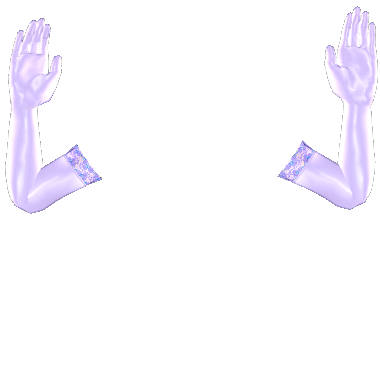
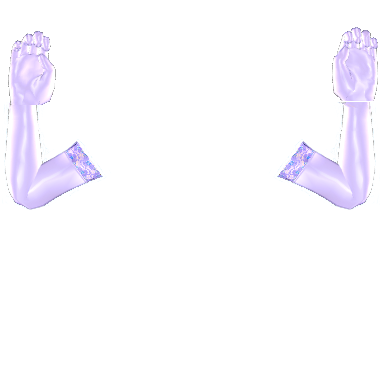
Gloves Fix
Added new pose for Gloves 'HandsTaped'
This allows us to unhide the gloves when wearing mittens without any issues of the fingers clipping through.
Also updated the silky gloves for yoked position

diff --git a/BondageClub/Assets/Female3DCG/Female3DCG.js b/BondageClub/Assets/Female3DCG/Female3DCG.js
@@ -521,7 +521,7 @@ var AssetFemale3DCG = [
 		Clothing: true,
 		Underwear: true,
 		Default: false,
-		AllowPose: ["BackBoxTie", "BackCuffs", "BackElbowTouch", "Yoked", "AllFours"],
+		AllowPose: ["TapedHands", "BackBoxTie", "BackCuffs", "BackElbowTouch", "Yoked", "AllFours"],
 		Color: ["Default", "#cccccc", "#aaaaaa", "#888888", "#666666", "#444444", "#222222", "#aa8080", "#80aa80", "#8080aa", "#aaaa80", "#80aaaa", "#aa80aa", "#cc3333", "#33cc33", "#3333cc", "#cccc33", "#33cccc", "#cc33cc"],
 		Asset: [
 			"Gloves1", "Gloves2",
@@ -1368,10 +1368,10 @@ var AssetFemale3DCG = [
 		Color: ["Default"],
 		Zone: [[10, 400, 90, 200], [400, 400, 90, 200]],
 		Asset: [
-			{ Name: "PaddedMittens", DefaultColor: "#bbbbbb", SelfBondage: false, Value: 40, AllowPose: ["BackBoxTie", "BackElbowTouch", "BackCuffs", "Yoked", "AllFours"], Effect: ["Block", "Prone"], Extended: true, Time: 15, Difficulty: 4, AllowLock: true },
-			{ Name: "PawMittens", DefaultColor: "#bbbbbb", SelfBondage: false, Value: 50, AllowPose: ["BackBoxTie", "BackElbowTouch", "BackCuffs", "Yoked", "AllFours"], Effect: ["Block", "Prone"], Extended: true, Time: 15, Difficulty: 4, AllowLock: true },
-			{ Name: "LeatherMittens", SelfBondage: false, Value: 60, SetPose: ["TapedHands"], AllowPose: ["BackBoxTie", "BackElbowTouch", "BackCuffs", "Yoked", "AllFours"], Hide: ["Gloves"], Effect: ["Block", "Prone"], Time: 15, RemoveTime: 5, Difficulty: 5, AllowLock: true },
-			{ Name: "PaddedLeatherMittens", SelfBondage: false, Value: 70, SetPose: ["TapedHands"], AllowPose: ["BackBoxTie", "BackElbowTouch", "BackCuffs", "Yoked", "AllFours"], Hide: ["Gloves"], Effect: ["Block", "Prone"], Time: 15, RemoveTime: 5, Difficulty: 6, AllowLock: true },
+			{ Name: "PaddedMittens", DefaultColor: "#bbbbbb", Value: 40, AllowPose: ["BackBoxTie", "BackElbowTouch", "BackCuffs", "Yoked", "AllFours"], Effect: ["Block", "Prone"], Extended: true, Time: 15, Difficulty: 4, AllowLock: true },
+			{ Name: "PawMittens", DefaultColor: "#bbbbbb", Value: 50, AllowPose: ["BackBoxTie", "BackElbowTouch", "BackCuffs", "Yoked", "AllFours"], Effect: ["Block", "Prone"], Extended: true, Time: 15, Difficulty: 4, AllowLock: true },
+			{ Name: "LeatherMittens", Value: 60, SetPose: ["TapedHands"], AllowPose: ["BackBoxTie", "BackElbowTouch", "BackCuffs", "Yoked", "AllFours"], Effect: ["Block", "Prone"], Time: 15, RemoveTime: 5, Difficulty: 5, AllowLock: true },
+			{ Name: "PaddedLeatherMittens", SelfBondage: false, Value: 70, SetPose: ["TapedHands"], AllowPose: ["BackBoxTie", "BackElbowTouch", "BackCuffs", "Yoked", "AllFours"], Effect: ["Block", "Prone"], Time: 15, RemoveTime: 5, Difficulty: 6, AllowLock: true },
 			{ Name: "PolishedMittens", SelfBondage: false, Value: 80, AllowPose: ["BackBoxTie", "BackElbowTouch", "BackCuffs", "Yoked", "AllFours"], Effect: ["Block", "Prone"], Time: 20, RemoveTime: 10, Difficulty: 8, AllowLock: true  },
 			{ Name: "DuctTape", SelfBondage: false, Value: 50, SetPose: ["TapedHands"], AllowPose: ["BackBoxTie", "BackElbowTouch", "BackCuffs", "Yoked", "AllFours"], Hide: ["Gloves"], Effect: ["Block", "Prone"], Time: 20, RemoveTime: 10, Difficulty: 5, BuyGroup: "DuctTape" },
 			{
